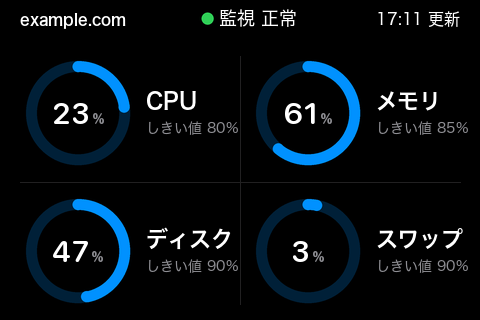
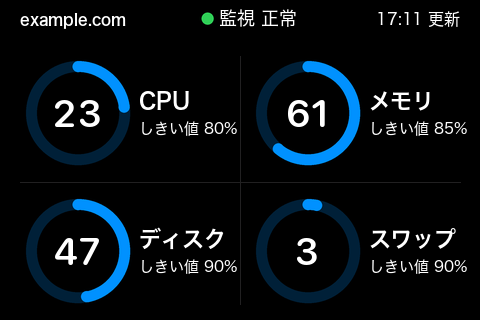
feat: 「あと…」としきい値を白にし、リングの中の % を外して数字を大きくする
5.2 インチ: 「あと…」を灰色の 32 px から白の 38 px に、数字を 76→108 px にして % を外す。
下の余白を左右と同じ 27 px に保つため、日時との間（remain_gap）を 22→21.75 にした。
3.5 インチ 2 台（横置き）: しきい値・量の行を名前と同じ白にして 14→15 px に、数字を 30→38 px にして
% を外す。区切り線の手前に収めるため、名前と下の行を 126→119 へ寄せた。
ユーザーが見本で選んだ（docs/handover.md §4-22）。README の画像 7 枚を同じ時刻で描き直した。

diff --git a/claude_usage_display/gauge.py b/claude_usage_display/gauge.py
@@ -99,6 +99,10 @@ class Layout:
     cards: bool = True  # False はカードの面を描かず、黒地に縦の区切り線を引く
     ring: float = 1.0  # リングの半径と太さの倍率（content に掛ける）。大きくした分は下へ伸ばす
     remain_gap: float = REMAIN_GAP  # リセットの日時と残り時間の間（3.5 インチの寸法。content を掛ける）
+    number: float = TITLE1  # リングの中の数字の大きさ（3.5 インチの pt。content を掛ける）
+    percent_sign: bool = True  # 数字の右に小さく % を出すか
+    remain_pt: float = CAPTION1  # quiet_remain のときの残り時間の大きさ（3.5 インチの pt。content を掛ける）
+    remain_color: tuple[int, int, int] = SECONDARY  # quiet_remain のときの残り時間の色
 
     @property
     def k(self) -> float:
@@ -145,8 +149,14 @@ class Layout:
 # - ring・remain_gap: カードが無くなって下の隙間が目立ったので、リングを 1.15 倍にして「リセット」以降を下げ、
 #   「あと…」を日時に寄せた（日時との隙間 24 px は「リセット」と日時の隙間と同じ。下の余白は左右と同じ 27 px）。
 #   名前の位置は変えていない（2026-10-15、ユーザーが実機で候補から選んだ）
+# - remain_pt・remain_color: 「あと…」を白にし、32→38 ピクセルにした（2026-10-27、ユーザーの指示「視認性を上げる」。
+#   見本で選んだ）。字の下端が下がった分、下の余白が左右（27 ピクセル）を下回らないよう、remain_gap を 22→21.75 にした。
+#   日時との間は 24→18 ピクセル。「リセット」の見出しは灰色のまま
+# - number・percent_sign: リングの中の % を外し、数字を 76→108 ピクセルにした（同日、見本で選んだ）。
+#   「100」の幅 203 は、リングの内側の直径 242 に収まる
 LARGE = {(1280, 720): {"content": 1.2, "stamp": 16, "quiet_remain": True, "blue": (0, 105, 255), "cards": False,
-                       "ring": 1.15, "remain_gap": 22}}
+                       "ring": 1.15, "remain_gap": 21.75, "remain_pt": 14, "remain_color": LABEL, "number": 40,
+                       "percent_sign": False}}
 
 
 def layout_for(size: tuple[int, int]) -> Layout:
@@ -155,9 +165,9 @@ def layout_for(size: tuple[int, int]) -> Layout:
 
 def _remain_style(layout: Layout, scaled: bool = True) -> tuple[int, int, tuple[int, int, int]]:
     """残り時間（「あと…」）の字の大きさ（ピクセル）・太さ・色。``scaled`` はカードの中身の倍率を掛けるか。"""
-    size = (layout.cpt if scaled else layout.pt)(CAPTION1 if layout.quiet_remain else FOOTNOTE)
+    size = (layout.cpt if scaled else layout.pt)(layout.remain_pt if layout.quiet_remain else FOOTNOTE)
     if layout.quiet_remain:  # 「リセット」の見出しと同じ（13 ピクセル以下になるときだけ W4）
-        return size, 3 if size > 13 else SMALL_WEIGHT, SECONDARY
+        return size, 3 if size > 13 else SMALL_WEIGHT, layout.remain_color
     return size, SMALL_WEIGHT, LABEL
 
 
@@ -223,7 +233,8 @@ def content_top(layout: Layout = Layout()) -> float:
     """カードの中身の上端。リングが等倍のときの中身をカードの高さの中央に置く位置で、
     リングの大きさや残り時間の間を変えても名前の位置は変えず、下の行だけを動かす。"""
     _left, top, _right, bottom = card_box(0, layout)
-    return top + (bottom - top - content_rows(replace(layout, ring=1.0, remain_gap=REMAIN_GAP))[-1]) / 2
+    return top + (bottom - top - content_rows(replace(layout, ring=1.0, remain_gap=REMAIN_GAP,
+                                                      remain_pt=CAPTION1))[-1]) / 2
 
 
 def card_box(index: int, layout: Layout = Layout()) -> tuple[float, float, float, float]:
@@ -287,15 +298,17 @@ class _Shapes:
 
 
 def _value(draw: ImageDraw.ImageDraw, cx: float, baseline: float, percent: float | None, layout: Layout,
-           number_size: int = TITLE1, unit_size: int = SUBHEAD) -> None:
-    """「26」を大きく、「%」を小さく灰色で、ベースラインをそろえて中央に書く。"""
+           number_size: int = TITLE1, unit_size: int | None = SUBHEAD) -> None:
+    """「26」を大きく、「%」を小さく灰色で、ベースラインをそろえて中央に書く。``unit_size`` が None なら % を出さない。"""
     number = "--" if percent is None else f"{round(percent)}"
-    number_font, unit_font = rounded(layout.pt(number_size)), rounded(layout.pt(unit_size))
+    number_font = rounded(layout.pt(number_size))
     number_width = draw.textlength(number, font=number_font)
-    unit_width = 0 if percent is None else draw.textlength("%", font=unit_font) + layout.px(1)
+    sign = percent is not None and unit_size is not None
+    unit_font = rounded(layout.pt(unit_size)) if sign else None
+    unit_width = draw.textlength("%", font=unit_font) + layout.px(1) if sign else 0
     left = cx - (number_width + unit_width) / 2
     draw.text((left, baseline), number, font=number_font, fill=LABEL, anchor="ls")
-    if percent is not None:
+    if sign:
         draw.text((left + number_width + layout.px(1), baseline), "%", font=unit_font, fill=SECONDARY, anchor="ls")
 
 
@@ -402,8 +415,9 @@ def render(snapshot: Snapshot | None, now: datetime, status: str | None = None,
         draw.text((cx, origin + label_y), meter.label, font=fit_font(meter.label, inner, cpt(SUBHEAD), 6),
                   fill=LABEL, anchor="ms")
         percent = None if meter.percent is None else max(0.0, meter.percent)
-        _value(draw, cx, origin + ring_y + cpx(10), percent, layout, TITLE1 * layout.content,
-               SUBHEAD * layout.content)
+        # 数字の基準線は、数字の大きさに比例して下げ、リングの中央に字の中ほどをそろえる
+        _value(draw, cx, origin + ring_y + cpx(10) * layout.number / TITLE1, percent, layout,
+               layout.number * layout.content, SUBHEAD * layout.content if layout.percent_sign else None)
         when, remain = reset_lines(meter.resets_at, now)
         draw.text((cx, origin + caption_y), "リセット", font=font(cpt(CAPTION1), 3), fill=SECONDARY, anchor="ms")
         draw.text((cx, origin + when_y), when, font=fit_font(when, inner, cpt(SUBHEAD), 6), fill=LABEL, anchor="ms")

diff --git a/claude_usage_display/monitor_screen.py b/claude_usage_display/monitor_screen.py
@@ -57,9 +57,10 @@ class _Layout:
     cells: tuple[tuple[int, int], ...]           # 2×2 の各区画の左上
     ring: tuple[float, float, float, float]      # 中心 x・中心 y・半径・太さ
     label: tuple[float, float, str, int]         # 名前の位置・anchor・大きさ
-    number: tuple[float, float, int, int, bool]  # 数字の位置・大きさ・% の大きさ・中央にそろえるか
+    number: tuple[float, float, int, int, bool]  # 数字の位置・大きさ・% の大きさ（0 なら出さない）・中央にそろえるか
     threshold: tuple[float, float, str, int]     # しきい値の位置・anchor・大きさ
     dividers: tuple[tuple[float, float, float, float], ...]
+    bright_detail: bool = False                  # しきい値（下の行）を、薄い灰色ではなく名前と同じ色にする
 
 
 LANDSCAPE = _Layout(
@@ -70,12 +71,15 @@ LANDSCAPE = _Layout(
     size=(480, 320), inset=20, title_baseline=25, pill=(116, 4, 364, 34), status_baseline=25, dot_y=18.5,
     status_size=18, alert_size=18, dot_radius=6, stamp_size=16, tall_pill=None, tall_baselines=None,
     # 数字をリングの中に入れ、名前としきい値をリングの右で縦の中ほどに置く（2026-10-15、ユーザーが見本で選んだ）。
-    # 左の列の「しきい値 80%」（14 ピクセルで幅 92）の右端は 238 で、区切り線（240）の 2 ピクセル手前。
-    # しきい値は 2 桁の整数まで収まる。名前は、実機を見たユーザーの指示で 18→22 にした（2026-10-27、見本で選んだ）。
-    # 左へ寄せずに入る最大の大きさで、左の列の「ディスク」（幅 87）の右端は 233、右の列の「スワップ」の右端は 463
-    # （その下の「しきい値 90%」の右端 468 より内側）
-    cells=((20, 44), (250, 44), (20, 182), (250, 182)), ring=(58, 69, 52, 11), label=(126, 65, "ls", 22),
-    number=(58, 80, 30, 14, True), threshold=(126, 89, "ls", 14), dividers=((240, 56, 240, 304), (20, 182, 460, 182)))
+    # 名前は、実機を見たユーザーの指示で 18→22 にした（2026-10-27、見本で選んだ）。
+    # 続けて、ユーザーの指示「視認性を上げる」で、しきい値（下の行）を灰色から名前と同じ白にして 14→15 にし、
+    # リングの中の % を外して数字を 30→38 にした（同日、見本で選んだ案 B）。15 ピクセルの下の行を区切り線の手前に
+    # 収めるため、名前と下の行を 126→119 へ寄せた（リングの外側 110 との間は 9）。左の列の「しきい値 80%」
+    # （15 ピクセルで幅 99）の右端は 238 で、区切り線（240）の 2 ピクセル手前。しきい値は 2 桁の整数まで収まる。
+    # 「ディスク」（22 ピクセルで幅 87）の右端は 226。数字の「100」（幅 71）はリングの内側（直径 82）に収まる
+    cells=((20, 44), (250, 44), (20, 182), (250, 182)), ring=(58, 69, 52, 11), label=(119, 65, "ls", 22),
+    number=(58, 83, 38, 0, True), threshold=(119, 90, "ls", 15), dividers=((240, 56, 240, 304), (20, 182, 460, 182)),
+    bright_detail=True)
 PORTRAIT = _Layout(
     size=(320, 480), inset=16, title_baseline=26, pill=(16, 38, 304, 70), status_baseline=60, dot_y=53.5,
     # 監視の状態は、実機を見たユーザーの指示で大きくした（2026-10-11。文言 13→18、帯の中 15→18）。
@@ -287,17 +291,20 @@ def render(status: ServerStatus | None, assessment: Assessment | None, config: M
         strong = WHITE if (not red or spec.label in alerting) else faint
         draw.text((x + label_x, y + label_y), spec.label, font=font(label_size, 6), fill=strong, anchor=label_anchor)
         number = "--" if value is None else f"{value:.0f}"
-        number_font, unit_font = rounded(number_size), rounded(unit_size)
+        number_font, unit_font = rounded(number_size), rounded(unit_size) if unit_size > 0 else None
         number_width = draw.textlength(number, font=number_font)
         gap = 1 if centered else 2
-        unit_width = 0 if value is None else draw.textlength("%", font=unit_font) + gap
+        sign = value is not None and unit_size > 0
+        unit_width = draw.textlength("%", font=unit_font) + gap if sign else 0
         left = x + number_x - ((number_width + unit_width) / 2 if centered else 0)
         draw.text((left, y + number_y), number, font=number_font, fill=strong, anchor="ls")
-        if value is not None:
+        if sign:
             draw.text((left + number_width + gap, y + number_y), "%", font=unit_font, fill=faint, anchor="ls")
         detail = metrics[index].detail if metrics and metrics[index].detail is not None else None
         lines = detail if detail is not None else (f"しきい値 {spec.threshold:g}%",)
+        line_step = max(DETAIL_LINE, threshold_size + 4)  # 14 ピクセルまでは 18、大きくしたら字に合わせて広げる
         for line_index, line in enumerate(lines):
-            draw.text((x + threshold_x, y + threshold_y + DETAIL_LINE * line_index), line,
-                      font=font(threshold_size, SMALL_WEIGHT), fill=faint, anchor=threshold_anchor)
+            draw.text((x + threshold_x, y + threshold_y + line_step * line_index), line,
+                      font=font(threshold_size, SMALL_WEIGHT), fill=strong if layout.bright_detail else faint,
+                      anchor=threshold_anchor)
     return image

diff --git a/tests/test_gauge.py b/tests/test_gauge.py
@@ -144,8 +144,9 @@ class LargeGaugeTest(unittest.TestCase):
         self.assertTrue(all(abs(a - b) <= 2 for a, b in zip(track, expected)), track)
 
     def test_larger_ring_moves_only_the_rows_below_it(self):
-        # カードが無くなって下の隙間が目立ったので、リングを 1.15 倍にし、「あと…」を日時に寄せた（2026-10-15）。名前は動かさない
-        self.assertEqual((self.LAYOUT.ring, self.LAYOUT.remain_gap), (1.15, 22))
+        # カードが無くなって下の隙間が目立ったので、リングを 1.15 倍にし、「あと…」を日時に寄せた（2026-10-15）。名前は動かさない。
+        # 「あと…」を 38 ピクセルにしたとき（2026-10-27）、下の余白を保つため間を 22→21.75 にした
+        self.assertEqual((self.LAYOUT.ring, self.LAYOUT.remain_gap), (1.15, 21.75))
         self.assertEqual((gauge.layout_for((480, 320)).ring, gauge.layout_for((480, 320)).remain_gap), (1.0, gauge.REMAIN_GAP))
         plain = replace(self.LAYOUT, ring=1.0, remain_gap=gauge.REMAIN_GAP)
         rows, plain_rows = gauge.content_rows(self.LAYOUT), gauge.content_rows(plain)
@@ -180,18 +181,27 @@ class LargeGaugeTest(unittest.TestCase):
         self.assertGreaterEqual(bottom_margin, self.LAYOUT.px(gauge.MARGIN))  # 下の端との間
         self.assertLess(2 * self.LAYOUT.ring_px()[0], self.LAYOUT.card_width - 2 * self.LAYOUT.px(gauge.CARD_PADDING))
 
-    def test_remaining_time_is_written_like_the_reset_caption(self):
-        # 5.2 インチは「あと…」を「リセット」の見出しと同じ灰色・大きさ・太さにする（2026-10-13）。3.5 インチは白の W4 のまま
-        self.assertEqual(gauge._remain_style(self.LAYOUT), (self.LAYOUT.cpt(gauge.CAPTION1), 3, gauge.SECONDARY))
+    def test_remaining_time_is_white_and_larger(self):
+        # 5.2 インチの「あと…」は、「リセット」の見出しと同じ灰色・大きさ・太さにしていた（2026-10-13）が、視認性を
+        # 上げるため白にし、32→38 ピクセルにした（2026-10-27）。太さは W3 のまま。3.5 インチは白の W4 のまま
+        self.assertEqual(gauge._remain_style(self.LAYOUT), (38, 3, gauge.LABEL))
         self.assertEqual(gauge._remain_style(gauge.layout_for((480, 320))), (13, gauge.SMALL_WEIGHT, gauge.LABEL))
         image = gauge.render(snapshot(26, 74, 93), NOW, size=self.SIZE)
         _label, _ring, _caption, _when, remain_y, content_height = gauge.content_rows(self.LAYOUT)
         left, top, right, bottom = gauge.card_box(0, self.LAYOUT)
         baseline = round(gauge.content_top(self.LAYOUT) + remain_y)
         band = [image.getpixel((x, y)) for x in range(round(left) + 20, round(right) - 20)
-                for y in range(baseline - 25, baseline + 4)]
-        self.assertTrue(any(near(p, gauge.SECONDARY, 20) for p in band), "灰色の字が無い")
-        self.assertFalse(any(min(p) > 200 for p in band), "白い字が残っている")
+                for y in range(baseline - 30, baseline + 4)]
+        self.assertTrue(any(min(p) > 240 for p in band), "白い字が無い")  # 灰色のときは明るくても 147
+
+    def test_number_is_larger_without_percent_sign(self):
+        # 5.2 インチは、リングの中の % を外し、数字を 76→108 ピクセルにした（2026-10-27）。3.5 インチは % を残す
+        self.assertFalse(self.LAYOUT.percent_sign)
+        self.assertTrue(gauge.layout_for((480, 320)).percent_sign)
+        size = self.LAYOUT.pt(self.LAYOUT.number * self.LAYOUT.content)
+        self.assertEqual(size, 108)
+        radius, width = self.LAYOUT.ring_px()
+        self.assertLess(gauge.rounded(size).getlength("100"), 2 * (radius - width) - 20)  # 「100」もリングの内側に収まる
 
     def test_card_content_is_vertically_centered(self):
         image = gauge.render(snapshot(26, 74, 93), NOW, size=self.SIZE)

diff --git a/tests/test_monitor_screen.py b/tests/test_monitor_screen.py
@@ -57,6 +57,19 @@ class MonitorScreenTest(unittest.TestCase):
         end = ms.LANDSCAPE.cells[0][0] + threshold_x + font(threshold_size, SMALL_WEIGHT).getlength("しきい値 85%")
         self.assertLess(end, ms.LANDSCAPE.dividers[0][0])
 
+    def test_landscape_detail_is_white_and_the_number_has_no_percent_sign(self):
+        # 2026-10-27、視認性を上げるため、しきい値を灰色から白にして 14→15 ピクセルにし、% を外して数字を 30→38 にした
+        image = self.render(status())
+        x, y = ms.LANDSCAPE.cells[0]
+        threshold_x, threshold_y, _, size = ms.LANDSCAPE.threshold
+        band = [image.getpixel((x + px, y + py)) for px in range(threshold_x, threshold_x + 60)
+                for py in range(threshold_y - size, threshold_y + 2)]
+        self.assertTrue(any(min(p) > 240 for p in band))  # 灰色のときは明るくても 147
+        _, _, number_size, unit_size, _ = ms.LANDSCAPE.number
+        self.assertEqual(unit_size, 0)
+        _, _, radius, width = ms.LANDSCAPE.ring
+        self.assertLess(ms.rounded(number_size).getlength("100"), 2 * (radius - width) - 6)  # 「100」もリングの内側に収まる
+
     def test_landscape_long_labels_fit_their_cells(self):
         # 2026-10-27 に名前を 18→22 ピクセルにした。左の列の名前は区切り線の手前、右の列の名前は
         # その下の「しきい値 90%」より右へ出ない

diff --git a/docs/handover.md b/docs/handover.md
@@ -431,7 +431,20 @@ scripts/uninstall-launch-agent.sh                                 # 自動起動
 - **見本**: いまの値で、18（いま）・21・22 ピクセルの 2 画面を描いて見せ、**ユーザーが 22 ピクセル（推奨）を選んだ**。22 は、名前を左へ寄せずに入る最大の大きさ。左の列の「ディスク」（W6 で幅 87）の右端は 233 で、区切り線（240）まで 7 ピクセル。右の列の「スワップ」の右端は 463 で、その下の「しきい値 90%」の右端（468）より内側。24 ピクセルにすると「ディスク」の右端が 241 になり区切り線に触れるので、名前と下の行をそろえて左へ寄せる必要があり、見本に入れなかった。名前の基準線（区画の 65）は変えていない
 - テスト `tests/test_monitor_screen.py` の `test_landscape_long_labels_fit_their_cells` を足した（左の列は区切り線の 4 ピクセルより手前、右の列は「しきい値 90%」の右端まで）
 - **README の画像**: 横置きの 5 枚（`monitor-normal`・`monitor-alert`・`monitor-jobs`・`local`・`local-warning`）を、前と同じ時刻（10-15 17:11・18:06）に固定して描き直した。18 ピクセルで描くといまの画像と 1 ピクセルも違わないことを確かめたうえで、22 ピクセルとの違いが名前のところだけであることを確かめた。`monitor-jobs.png` だけは、§4-17（`e430150`）で見出しの書き方を変えたときに作り直されておらず、「ジョブ障害 2 件」のままだったので、見出しも「ジョブ障害 2 件（nightly-backup ほか）」に変わった
+- **続けて、下の行の色と大きさ・リングの中の % を変えた**（§4-22）
 - **テストの直し**: 同じ日に macOS が 27.2 に上がって再起動した（14:10）後、`test_local_monitor` の `test_reads_this_mac` が落ちた。スワップの読み書きの累計（`swap_pages`）を「0 より大きい」と決めつけていたが、再起動の後にスワップを一度も使っていなかった（`vm_stat` の Swapins・Swapouts も 0）。読み方は正しかったので、`vm_stat` の合計を前後の 2 回の読み取りではさむ形に直した
+
+### 4-22. 「あと…」・しきい値を白にし、リングの中の % を外して数字を大きくした（2026-10-27）
+
+- **ユーザーの指示**: 「5.2 インチ あと x 時間、3.5 インチ しきい値のテキストカラーを他と同じ白にしたい（視認性を上げる）」「5.2 インチの方はフォントサイズも大きくしたい」「3.5 インチはフォントサイズ大きくできない？」「サークル内の % 表記は外して数値のフォントサイズ大きくできる？」「まずはサンプル画像を作成して」
+- **見本**: 5.2 インチ 2 案（「あと…」38・40 ピクセル、数字 97・108 ピクセル）と、3.5 インチ 3 案（下の行 14・15・16 ピクセル）を描いた。最初は画像の場所を書いただけで選んでもらおうとし、ユーザーから「画像が確認できてない」と言われたので、`open -a Preview` で Mac の画面に開いた。**見本を見せるときは、場所を書くだけでなく、プレビューで開く**
+- **決めたこと**（ユーザーが選んだ）
+  - 5.2 インチ: 「あと…」を灰色の 32 ピクセルから白の 38 ピクセルに（案 A の大きさ）、数字を 76→108 ピクセルにして % を外す（案 B の大きさ）。`gauge.LARGE` の `remain_pt`・`remain_color`・`number`・`percent_sign`。「リセット」の見出しは灰色のまま。38 ピクセルにすると字の下端が 0.55 ピクセル下がり、下の余白が左右の 27 ピクセルを下回る（`test_content_is_enlarged_and_still_fits`）ので、`remain_gap` を 22→21.75 にした（日時との間は 24→18 ピクセル）。名前の位置は変わらない（`content_top` は `remain_pt` を既定に戻して測る）
+  - 3.5 インチ 2 台（案 B）: 下の行（しきい値・量・性能と効率）を灰色から名前と同じ色（赤の画面では、異常の項目は白・ほかは薄い色）にし、14→15 ピクセルにした。数字は 30→38 ピクセルにして % を外した。15 ピクセルの「しきい値 80%」（幅 99）を区切り線の手前に収めるため、名前と下の行を 126→119 へ寄せた（リングとの間は 16→9）。CPU の 2 行の間は 18→19。`monitor_screen.LANDSCAPE` の `bright_detail`・`number`（% の大きさ 0 は出さない）・`threshold`・`label`。縦置き（`PORTRAIT`）は変えていない
+  - 16 ピクセル（案 C）は、リングも左へ寄せる必要があり、リングと文字の間が 7 ピクセルまで詰まるので選ばれなかった
+- Gemini の枠を足した画面（`render_with_gemini`。いまは使っていない）は、`_remain_style` を共有するので、「あと…」が白の 32 ピクセル（前は灰色の 27）になる。カードに収まることを画像で確かめた。この画面のリングの数字と % は変えていない
+- 確かめたこと: 値を足す前に、既定のまま描いた 3 画面が直す前と 1 ピクセルも違わないこと。3.5 インチの実装が見本の案 B と 1 ピクセルも違わないこと。テストは 192 件すべて通過（足したのは `test_number_is_larger_without_percent_sign`・`test_landscape_detail_is_white_and_the_number_has_no_percent_sign`。`test_remaining_time_is_written_like_the_reset_caption` は `test_remaining_time_is_white_and_larger` に書き直した）
+- README の画像: 5.2 インチの 2 枚（`gauge-1280x720`・`gauge-gemini-1280x720`。10-15 08:58・08:34）と、3.5 インチの横置きの 5 枚を、前と同じ時刻で描き直した。いまのコードで描くと前の画像と 1 ピクセルも違わないことを先に確かめ、3.5 インチは見出しが変わらないことも確かめた
 
 ## 5. 残っている作業（上から順に）
 
